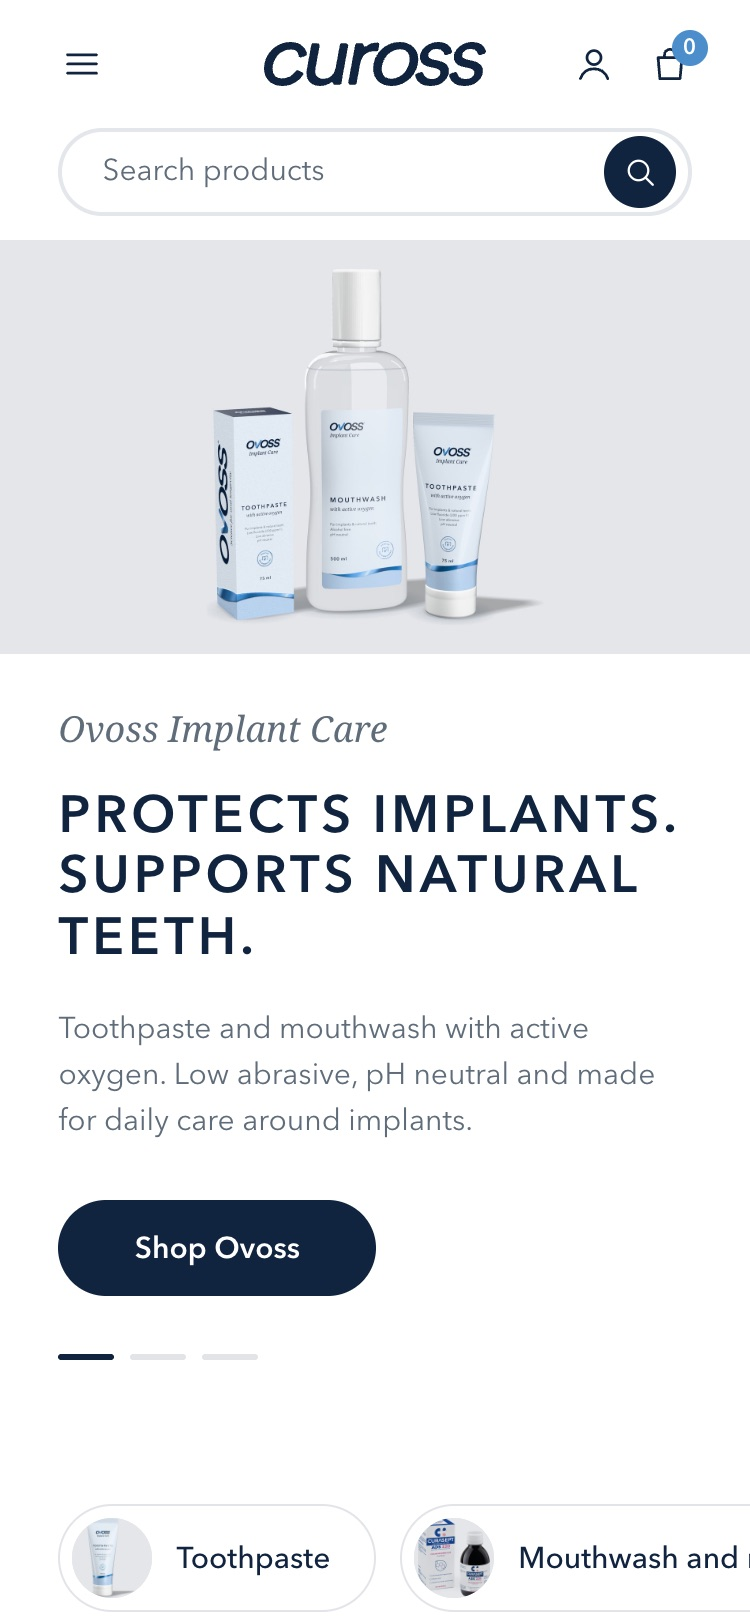
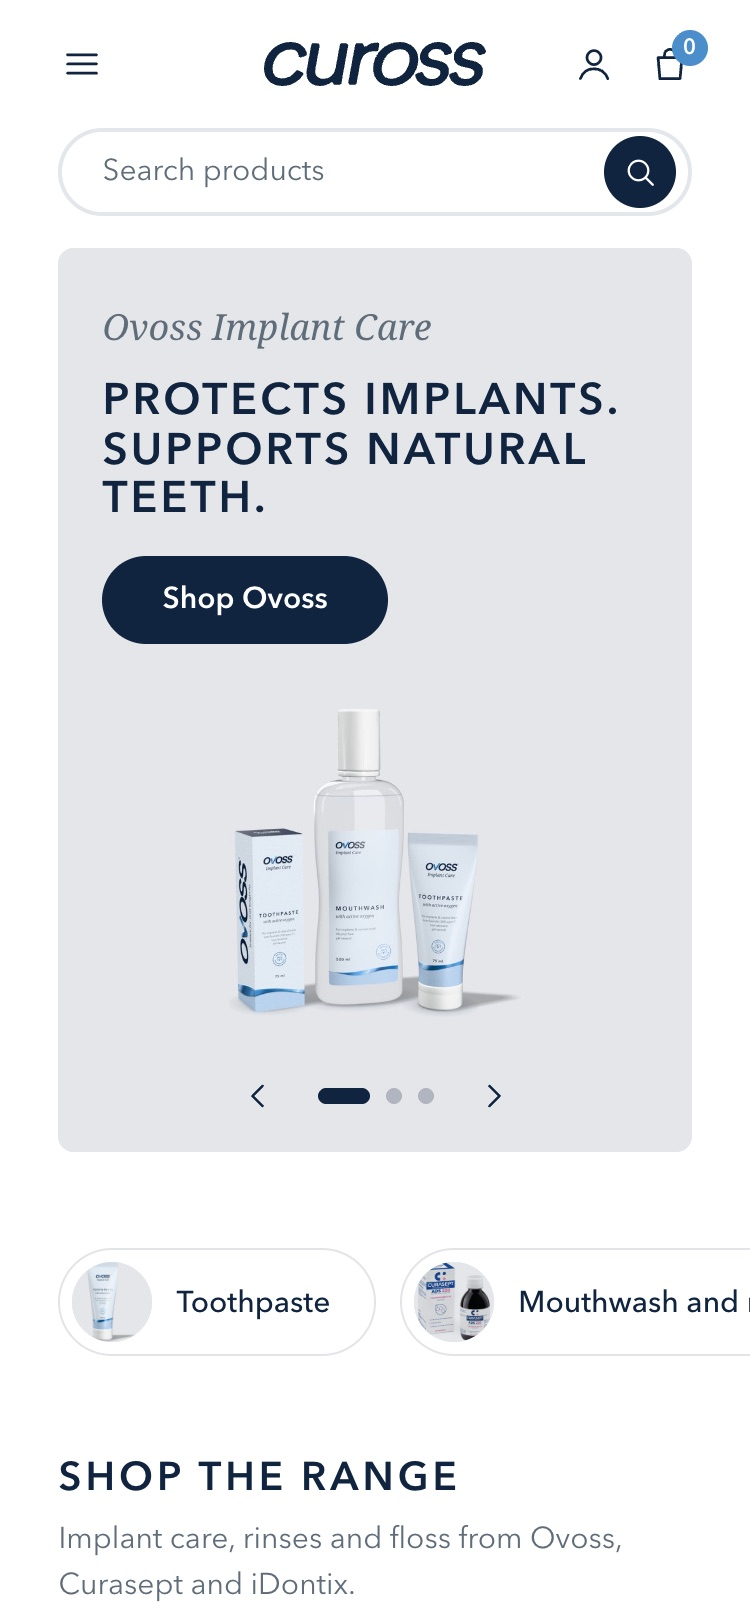
Options are now Hyper slideshow vs Sleek carousel
01 Full-width slideshow (Hyper's own Slideshow) is the default hyper.html.
02 Sleek-style carousel with neighbours peeking (custom on Hyper) at
hyper.html?hero=sleek. Split hero removed. Cover, switcher, thumbnails.

diff --git a/hyper.html b/hyper.html
@@ -7,7 +7,7 @@
 <link rel="preconnect" href="https://fonts.googleapis.com">
 <link href="https://fonts.googleapis.com/css2?family=Nunito+Sans:opsz,wght@6..12,400;6..12,500;6..12,600&display=swap" rel="stylesheet">
 <link rel="stylesheet" href="assets/css/base.css">
-<script>if (/[?&]hero=b\b/.test(location.search)) document.documentElement.classList.add("hero-b");</script>
+<script>if (/[?&]hero=sleek\b/.test(location.search)) document.documentElement.classList.add("hero-c");</script>
 <style>
 /* Direction A: Hyper (Ceramide preset) layout, measured at 1732 px (see SPEC.md), in the Ovoss identity */
 :root{--pad:clamp(16px,7.8vw,135px);--card-bg:var(--studio)}
@@ -42,30 +42,14 @@ section{margin-top:clamp(48px,5vw,80px)}
 .nav a .ico{width:18px;height:18px;opacity:.8}
 .nav .pill{background:var(--foil);border-radius:100px;padding:6px 16px}
 
-/* hero 564 */
-.hero{margin-top:0;padding-top:20px}
-.hero .wrap{position:relative}
-.slides{position:relative;height:564px}
-.slide{position:absolute;inset:0;display:grid;grid-template-columns:minmax(380px,1fr) minmax(0,950px);gap:clamp(24px,4vw,70px);align-items:center;opacity:0;visibility:hidden;transition:opacity .6s ease,visibility .6s}
-.slide.on{opacity:1;visibility:visible}
-.slide .txt{max-width:440px}
+/* eyebrow: Ovoss Serif italic descriptor */
 .eyebrow{font-family:var(--serif);font-style:italic;font-size:18px;color:var(--slate)}
-.slide h1{margin-top:14px;font-size:clamp(28px,2.35vw,40px);line-height:1.18;text-transform:uppercase;font-weight:600;letter-spacing:.08em}
-.slide p{margin-top:18px;color:#516971;color:var(--slate);max-width:400px}
-.slide .btn{margin-top:28px;min-width:159px}
-.slide .img{height:524px;background:var(--studio);display:flex;align-items:center;justify-content:center;overflow:hidden}
-.slide .img img{height:100%;width:100%;object-fit:cover}
-.slide .img.row img{width:auto;height:100%;object-fit:contain;flex:0 1 auto;min-width:0;margin:0 -2%}
-.dots{position:absolute;left:var(--pad);bottom:20px;display:flex;gap:8px}
-.dots button{width:28px;height:3px;background:var(--line);border-radius:2px}
-.dots button.on{background:var(--navy)}
 
-/* option B hero (?hero=b): Hyper's own Slideshow section, measured on hyper-theme-demo 25 Nov:
+/* option 01 hero (default): Hyper's own Slideshow section, measured on hyper-theme-demo 25 Nov:
    fixed width (page padding), height adapts to the first image, 10 px radius (8 on phone), content position per
    slide, arrows + dots centred at the bottom inside the slide. Same artwork as the Sleek hero. */
-.heroB{display:none;margin-top:20px}
-.hero-b .hero{display:none}
-.hero-b .heroB{display:block}
+.heroB{margin-top:20px}
+.hero-c .heroB{display:none}
 .ss{position:relative;border-radius:10px;overflow:hidden;aspect-ratio:2400/1121;min-height:440px;max-height:max(440px,calc(100vh - 170px));width:100%;background:var(--studio)}
 .ss-track{display:flex;height:100%;transition:transform .7s cubic-bezier(.65,0,.35,1)}
 .ss-slide{flex:none;width:100%;height:100%;position:relative;background:var(--studio)}
@@ -85,6 +69,31 @@ section{margin-top:clamp(48px,5vw,80px)}
 .ss-dots{display:flex;gap:8px;align-items:center}
 .ss-dots button{width:8px;height:8px;border-radius:4px;background:rgba(16,35,63,.25);transition:width .3s,background .3s}
 .ss-dots button.on{width:26px;background:var(--navy)}
+
+/* option 02 hero (?hero=sleek): Sleek's Slideshow with Layout "Centered" (active slide, neighbours peeking).
+   Not native to Hyper: a custom section. Built exactly as sleek.html (radius 12, white label pill, round arrows and
+   dots below the slide); the centre slide lines up with this page's content width. */
+.heroC{display:none;margin-top:20px;position:relative;overflow:hidden}
+.hero-c .heroC{display:block}
+.hc-track{display:flex;gap:10px;will-change:transform}
+.hc-track.anim{transition:transform .7s cubic-bezier(.65,0,.35,1)}
+.hc{flex:none;width:calc(min(100vw,1732px) - 2 * var(--pad));height:max(440px,min(696px,calc((min(100vw,1732px) - 2 * var(--pad)) * .467),calc(100vh - 170px)));border-radius:12px;overflow:hidden;position:relative;background:var(--studio)}
+.hc > img{position:absolute;inset:0;width:100%;height:100%;object-fit:cover}
+.hc .tiles{position:absolute;right:3%;top:0;bottom:0;width:52%;display:flex;align-items:center;justify-content:center}
+.hc .tiles img{width:100%;height:84%;object-fit:contain}
+.hc .txt{position:absolute;left:clamp(24px,6%,90px);top:50%;transform:translateY(-50%);max-width:min(500px,38%)}
+.hc .tag{display:inline-block;background:#fff;border-radius:100px;padding:6px 14px;font-size:13px;font-weight:600}
+.hc h1,.hc h2{margin-top:20px;font-size:clamp(26px,2.7vw,46px);line-height:1.12;text-transform:uppercase;font-weight:600;letter-spacing:.07em}
+.hc p{margin-top:16px;color:var(--slate);font-size:16px;max-width:420px}
+.hc .btn{margin-top:28px}
+.hc.mist{background:var(--tint)}
+.hc.mist .tiles img{mix-blend-mode:multiply}
+.hc-nav{display:flex;justify-content:center;align-items:center;gap:18px;margin-top:20px}
+.hc-dots{display:flex;gap:8px}
+.hc-dots button{width:8px;height:8px;border-radius:50%;background:var(--line);transition:width .3s,background .3s}
+.hc-dots button.on{width:26px;border-radius:4px;background:var(--navy)}
+.hc-nav .round{width:40px;height:40px;border-radius:50%;background:#fff;box-shadow:inset 0 0 0 1px var(--line);display:grid;place-items:center;flex:none}
+.hc-nav .round:hover{box-shadow:inset 0 0 0 1px var(--navy)}
 
 /* category chips */
 .chips{display:flex;flex-wrap:wrap;justify-content:center;gap:12px}
@@ -228,7 +237,6 @@ footer{margin-top:clamp(64px,7vw,110px);background:var(--mist);border-top:1px so
 .legal .wrap div{display:flex;gap:20px}
 
 /* responsive */
-@media (max-height:780px) and (min-width:901px){.slides{height:500px}.slide .img{height:460px}.slide h1{font-size:clamp(26px,2.2vw,34px);margin-top:10px}.slide p{margin-top:12px}.slide .btn{margin-top:20px}.hero{padding-top:14px}}
 @media (max-width:1180px){
   .track{grid-auto-columns:calc((100% - 3 * 16px) / 4)}
   .feat{grid-template-columns:1fr 1fr}
@@ -251,14 +259,16 @@ footer{margin-top:clamp(64px,7vw,110px);background:var(--mist);border-top:1px so
   .msearch{display:block!important;padding:0 var(--pad) 12px}
   .msearch .search{width:100%;height:44px}
   .nav{display:none}
-  .hero{padding-top:0}
-  .hero .wrap{padding:0}
-  .slides{height:auto;display:grid}
-  .slide{position:relative;grid-area:1/1;grid-template-columns:1fr;gap:0;align-items:start}
-  .slide .img{order:-1;height:auto;aspect-ratio:950/524}
-  .slide .txt{padding:24px var(--pad) 56px;max-width:none}
-  .slide h1{font-size:26px}
-  .dots{bottom:24px}
+  .heroC{margin-top:4px}
+  .hc-track{gap:8px}
+  .hc{height:auto;aspect-ratio:3/4}
+  .hc > img{object-position:center bottom}
+  .hc .txt{left:22px;right:22px;top:26px;transform:none;max-width:none}
+  .hc h1,.hc h2{font-size:22px;margin-top:14px}
+  .hc p{display:none}
+  .hc .btn{margin-top:16px;height:44px}
+  .hc .tiles{left:0;right:0;width:auto;top:auto;bottom:3%;height:44%}
+  .hc .tiles img{height:100%}
   .heroB{margin-top:4px}
   .ss{aspect-ratio:.7;min-height:0;max-height:none;border-radius:8px}
   .ss-slide > img{height:100%;object-fit:cover;object-position:center bottom}
@@ -337,41 +347,6 @@ footer{margin-top:clamp(64px,7vw,110px);background:var(--mist);border-top:1px so
   <a class="pill" href="#">For practices</a>
 </div></nav>
 
-<section class="hero">
-  <div class="wrap">
-    <div class="slides" id="slides">
-      <div class="slide on">
-        <div class="txt">
-          <div class="eyebrow">Ovoss Implant Care</div>
-          <h1>Protects implants. Supports natural teeth.</h1>
-          <p>Toothpaste and mouthwash with active oxygen. Low abrasive, pH neutral and made for daily care around implants.</p>
-          <a class="btn" href="#">Shop Ovoss</a>
-        </div>
-        <div class="img"><img src="assets/img/ovoss-range-hyper.jpg" alt="Ovoss Implant Care toothpaste and mouthwash"></div>
-      </div>
-      <div class="slide">
-        <div class="txt">
-          <div class="eyebrow">Curasept ADS</div>
-          <h1>Chlorhexidine rinses, gels and toothpaste</h1>
-          <p>The Curasept ADS range with the Anti Discoloration System, from 0.05% to 0.20% chlorhexidine.</p>
-          <a class="btn" href="#">Shop Curasept</a>
-        </div>
-        <div class="img row"><img src="assets/img/cs-ads205.jpg" alt=""><img src="assets/img/cs-ads212.jpg" alt=""><img src="assets/img/cs-ads220.jpg" alt=""></div>
-      </div>
-      <div class="slide">
-        <div class="txt">
-          <div class="eyebrow">iDontix</div>
-          <h1>Floss for implants, bridges and braces</h1>
-          <p>X-Floss, X-Floss Lite and X-Ribbon clean the spaces ordinary floss can't reach. Recommended by dental professionals.</p>
-          <a class="btn" href="#">Shop iDontix</a>
-        </div>
-        <div class="img row"><img src="assets/img/idx-xfloss.jpg" alt=""><img src="assets/img/idx-xfloss-lite.jpg" alt=""><img src="assets/img/idx-xribbon.jpg" alt=""></div>
-      </div>
-    </div>
-    <div class="dots" id="dots"><button class="on" aria-label="Slide 1"></button><button aria-label="Slide 2"></button><button aria-label="Slide 3"></button></div>
-  </div>
-</section>
-
 <section class="heroB">
   <div class="wrap">
     <div class="ss" id="ss">
@@ -393,6 +368,25 @@ footer{margin-top:clamp(64px,7vw,110px);background:var(--mist);border-top:1px so
     </div>
   </div>
 </section>
+
+<section class="heroC" id="heroC">
+  <div class="hc-track" id="hcTrack"></div>
+  <div class="hc-nav"><button class="round" data-d="-1" aria-label="Previous slide"><svg class="ico"><use href="#i-left"/></svg></button><div class="hc-dots" id="hcDots"></div><button class="round" data-d="1" aria-label="Next slide"><svg class="ico"><use href="#i-right"/></svg></button></div>
+</section>
+<template id="hcSlides">
+  <div class="hc" data-mimg="assets/img/ovoss-range-sleek-m.jpg">
+    <img src="assets/img/ovoss-range-sleek.jpg" alt="Ovoss Implant Care toothpaste and mouthwash">
+    <div class="txt"><span class="tag">Ovoss Implant Care</span><h1>Protects implants. Supports natural teeth.</h1><p>Toothpaste and mouthwash with active oxygen. Low abrasive, pH neutral and made for daily care around implants.</p><a class="btn" href="#">Shop Ovoss</a></div>
+  </div>
+  <div class="hc">
+    <div class="tiles"><img src="assets/img/hero-curasept.jpg" alt="Curasept ADS 205, 212 and 220 rinses"></div>
+    <div class="txt"><span class="tag">Curasept ADS</span><h2>Chlorhexidine rinses, gels and toothpaste</h2><p>The Curasept ADS range with the Anti Discoloration System, from 0.05% to 0.20% chlorhexidine.</p><a class="btn" href="#">Shop Curasept</a></div>
+  </div>
+  <div class="hc mist">
+    <div class="tiles"><img src="assets/img/hero-idontix-w.jpg" alt="iDontix X-Floss, X-Floss Lite and X-Ribbon"></div>
+    <div class="txt"><span class="tag">iDontix</span><h2>Floss for implants, bridges and braces</h2><p>X-Floss, X-Floss Lite and X-Ribbon clean the spaces ordinary floss can't reach.</p><a class="btn" href="#">Shop iDontix</a></div>
+  </div>
+</template>
 
 <section class="wrap">
   <div class="chips">
@@ -581,18 +575,9 @@ document.querySelectorAll("[data-coll]").forEach(sec => {
   sec.querySelectorAll(".tabs button").forEach(b => b.onclick = () => { sec.querySelectorAll(".tabs button").forEach(x => x.classList.toggle("on", x === b)); render(b.dataset.set); });
   render(sec.dataset.fixed || "all");
 });
-// hero slider: fade, 6 s, pauses on hover
+// option 01 hero: Hyper Slideshow (slide transition, 6 s, pauses on hover)
 (() => {
-  const slides = [...document.querySelectorAll(".slide")], dots = [...document.querySelectorAll("#dots button")];
-  let i = 0, t; const go = n => { i = (n + slides.length) % slides.length; slides.forEach((s, k) => s.classList.toggle("on", k === i)); dots.forEach((d, k) => d.classList.toggle("on", k === i)); };
-  const start = () => { clearInterval(t); t = setInterval(() => go(i + 1), 6000); };
-  dots.forEach((d, k) => d.onclick = () => { go(k); start(); });
-  const box = document.getElementById("slides"); box.onmouseenter = () => clearInterval(t); box.onmouseleave = start;
-  if (!new URLSearchParams(location.search).has("still")) start();
-})();
-// option B hero: Hyper Slideshow (slide transition, 6 s, pauses on hover)
-(() => {
-  if (!document.documentElement.classList.contains("hero-b")) return;
+  if (document.documentElement.classList.contains("hero-c")) return;
   const box = document.getElementById("ss"), track = document.getElementById("ssTrack"), dots = document.getElementById("ssDots");
   const slides = [...track.children], mobile = matchMedia("(max-width:900px)");
   const imgs = () => slides.forEach(s => { const m = s.dataset.mimg, im = s.querySelector(":scope > img"); if (!m || !im) return; im.dataset.dimg ??= im.getAttribute("src"); im.src = mobile.matches ? m : im.dataset.dimg; });
@@ -605,6 +590,33 @@ document.querySelectorAll("[data-coll]").forEach(sec => {
   box.querySelectorAll(".arr").forEach(b => b.onclick = () => { go(i + +b.dataset.d); start(); });
   box.onmouseenter = () => clearInterval(t); box.onmouseleave = start;
   go(0); start();
+})();
+// option 02 hero: Sleek carousel, centred slide with neighbours peeking, looping (same script as sleek.html)
+(() => {
+  if (!document.documentElement.classList.contains("hero-c")) return;
+  const sec = document.getElementById("heroC"), track = document.getElementById("hcTrack"), dots = document.getElementById("hcDots");
+  const src = [...document.getElementById("hcSlides").content.children];
+  const mobile = matchMedia("(max-width:900px)");
+  const make = el => { const c = el.cloneNode(true); const m = c.dataset.mimg; if (m && mobile.matches) c.querySelector(":scope > img").src = m; return c; };
+  const n = src.length;
+  const build = () => { track.innerHTML = ""; [src[n - 1], ...src, src[0]].forEach(s => track.appendChild(make(s))); };
+  build();
+  dots.innerHTML = src.map((_, k) => `<button aria-label="Slide ${k + 1}"></button>`).join("");
+  let i = 1, t;
+  const pos = (anim) => {
+    const w = track.children[1].getBoundingClientRect().width, gap = parseFloat(getComputedStyle(track).gap) || 0;
+    const left = (sec.clientWidth - w) / 2 - i * (w + gap);
+    track.classList.toggle("anim", anim); track.style.transform = `translateX(${left}px)`;
+    [...dots.children].forEach((d, k) => d.classList.toggle("on", k === (i - 1 + n) % n));
+  };
+  const go = d => { i += d; pos(true); };
+  track.addEventListener("transitionend", () => { if (i === 0) { i = n; pos(false); } if (i === n + 1) { i = 1; pos(false); } });
+  const restart = () => { clearInterval(t); if (!new URLSearchParams(location.search).has("still")) t = setInterval(() => go(1), 6000); };
+  [...dots.children].forEach((d, k) => d.onclick = () => { i = k + 1; pos(true); restart(); });
+  sec.querySelectorAll(".hc-nav [data-d]").forEach(b => b.onclick = () => { go(+b.dataset.d); restart(); });
+  addEventListener("resize", () => pos(false));
+  mobile.addEventListener("change", () => { build(); pos(false); });
+  pos(false); restart();
 })();
 </script>
 </body>

diff --git a/index.html b/index.html
@@ -42,33 +42,33 @@ h2{font-weight:400;font-size:26px;color:var(--cyan);margin:40px 0 12px}
 <div class="page">
   <img class="eye" src="assets/periscope/eye.png" alt="PeriscoPe">
   <h1>Cuross Health Website</h1>
-  <p class="sub">Homepage on Hyper, two hero options</p>
+  <p class="sub">Homepage on Hyper, two slider options</p>
 
-  <p class="intro">The Hyper homepage with your notes applied: one sign-in, Sleek's big statement and product showcase, shopping by care stage, and a section for dentist recommended and clinical references. Both versions below are the same page except for the hero at the top. Copy is still placeholder.</p>
+  <p class="intro">The Hyper homepage with your notes applied: one sign-in, Sleek's big statement and product showcase, shopping by care stage, and a section for dentist recommended and clinical references. Both versions below are the same page except for the slider at the top. Copy is still placeholder.</p>
 
-  <h2>The Two Hero Options</h2>
+  <h2>The Two Slider Options</h2>
   <div class="dirs">
   <div class="row">
     <div class="num">01</div>
     <div>
-      <h3>Split hero</h3>
-      <p class="copy">Text on the left and the product image on the right, as in the first round. It keeps the category shortcuts higher up the page.</p>
+      <h3>Full-width slideshow</h3>
+      <p class="copy">One large slide across the page, with the arrows and dots on the slide.</p>
       <a class="go" href="hyper.html">View option 01</a>
       <div class="shots">
-        <a href="hyper.html"><img src="assets/img/thumb-hyper.jpg" alt="Split hero homepage, desktop"><div class="cap">Desktop</div></a>
-        <a class="m" href="hyper.html"><img src="assets/img/thumb-hyper-m.jpg" alt="Split hero homepage, phone"><div class="cap">Phone</div></a>
+        <a href="hyper.html"><img src="assets/img/thumb-hyper.jpg" alt="Full-width slideshow, desktop"><div class="cap">Desktop</div></a>
+        <a class="m" href="hyper.html"><img src="assets/img/thumb-hyper-m.jpg" alt="Full-width slideshow, phone"><div class="cap">Phone</div></a>
       </div>
     </div>
   </div>
   <div class="row">
     <div class="num">02</div>
     <div>
-      <h3>Full-width slideshow</h3>
-      <p class="copy">One large slide across the page with the products shown big, closer to the Sleek look.</p>
-      <a class="go" href="hyper.html?hero=b">View option 02</a>
+      <h3>Sleek-style carousel</h3>
+      <p class="copy">The slider from Sleek: the next and previous slides peek in at the sides, with the arrows and dots below.</p>
+      <a class="go" href="hyper.html?hero=sleek">View option 02</a>
       <div class="shots">
-        <a href="hyper.html?hero=b"><img src="assets/img/thumb-hyper-b.jpg" alt="Slideshow hero homepage, desktop"><div class="cap">Desktop</div></a>
-        <a class="m" href="hyper.html?hero=b"><img src="assets/img/thumb-hyper-b-m.jpg" alt="Slideshow hero homepage, phone"><div class="cap">Phone</div></a>
+        <a href="hyper.html?hero=sleek"><img src="assets/img/thumb-carousel.jpg" alt="Sleek-style carousel, desktop"><div class="cap">Desktop</div></a>
+        <a class="m" href="hyper.html?hero=sleek"><img src="assets/img/thumb-carousel-m.jpg" alt="Sleek-style carousel, phone"><div class="cap">Phone</div></a>
       </div>
     </div>
   </div>

diff --git a/assets/js/switcher.js b/assets/js/switcher.js
@@ -1,15 +1,15 @@
 // Floating option switcher for the mockups (viewing tool, PeriscoPe styling, not part of the Cuross design).
-// 01 = Hyper with the split hero (hyper.html), 02 = Hyper with the full-width slideshow (hyper.html?hero=b).
+// 01 = Hyper's own slideshow (hyper.html), 02 = Sleek's peeking carousel on the same page (hyper.html?hero=sleek).
 (() => {
   const page = location.pathname.split("/").pop() || "index.html";
   const params = new URLSearchParams(location.search);
-  const here = page === "hyper.html" ? (params.get("hero") === "b" ? "b" : "a") : page;
+  const here = page === "hyper.html" ? (params.get("hero") === "sleek" ? "b" : "a") : page;
   const still = params.has("still");
-  const link = (hero) => "hyper.html" + (hero === "b" ? "?hero=b" + (still ? "&still" : "") : (still ? "?still" : ""));
+  const link = (hero) => "hyper.html" + (hero === "b" ? "?hero=sleek" + (still ? "&still" : "") : (still ? "?still" : ""));
   const items = [
     ["index.html", "index.html", '<img src="assets/periscope/eye.png" alt="">', "All options"],
-    ["a", link("a"), "<span>01</span>Split", ""],
-    ["b", link("b"), "<span>02</span>Slideshow", ""]
+    ["a", link("a"), "<span>01</span>Slideshow", ""],
+    ["b", link("b"), "<span>02</span>Carousel", ""]
   ];
   const el = document.createElement("nav");
   el.className = "dswitch"; el.setAttribute("aria-label", "Mockup options");
